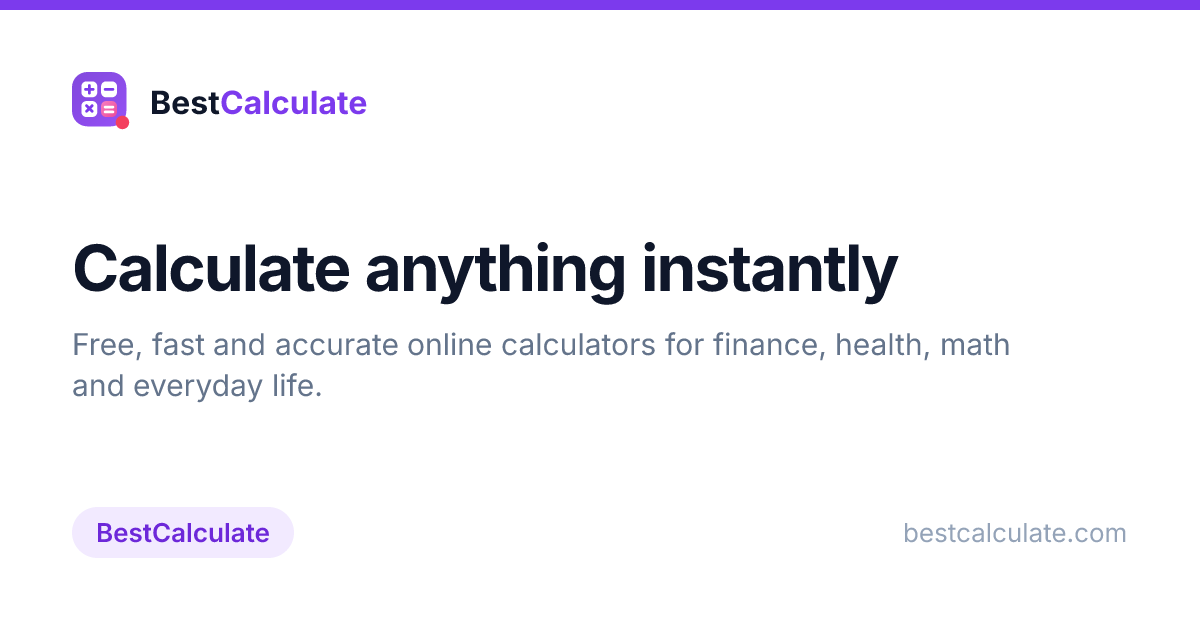
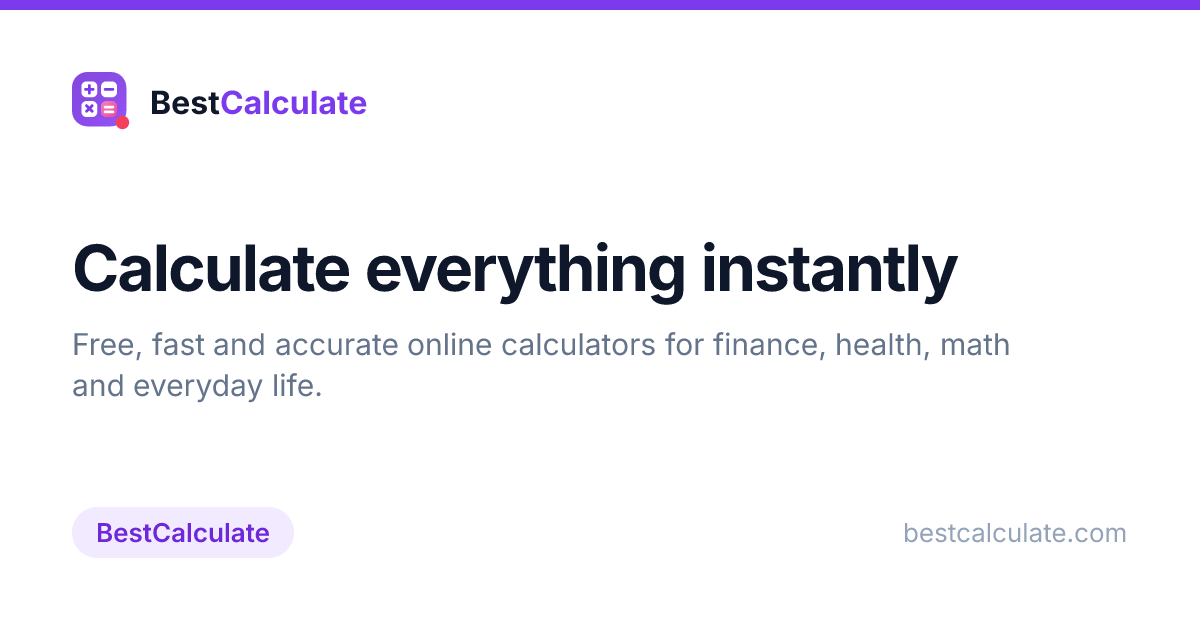
fix: align brand tagline with finalized wording
"Calculate anything instantly" becomes "Calculate everything instantly".

One line in src/config/site.ts, which is the only place the phrase existed — the header lockup, the footer sentence, the Organization schema and the default Open Graph card all already read SITE.tagline, so nothing needed refactoring away from a hard-coded copy.

Regenerating every asset moved exactly one file, public/og/default.png, whose title is the tagline. The other 98 cards and all six brand assets came back byte-identical, which is the proof that the mark, its geometry and the card composition are untouched.

Claude-Session: https://claude.ai/code/session_01RZceNTWrAsKRcRq3SU4vUu

Changed region(s): [[0.3083, 0.3921, 0.8017, 0.4825]]

diff --git a/src/config/site.ts b/src/config/site.ts
@@ -49,7 +49,7 @@ export const SITE: SiteConfig = {
   legalName: 'BestCalculate',
   // Canonical domain. If the registered domain differs, change ONLY this line.
   url: 'https://bestcalculate.com',
-  tagline: 'Calculate anything instantly',
+  tagline: 'Calculate everything instantly',
   contactEmail: 'hello@bestcalculate.com',
   description:
     'Free online calculators for finance, health, math, and everyday life. Fast, accurate, mobile-friendly, and ad-light — no sign-up required.',
